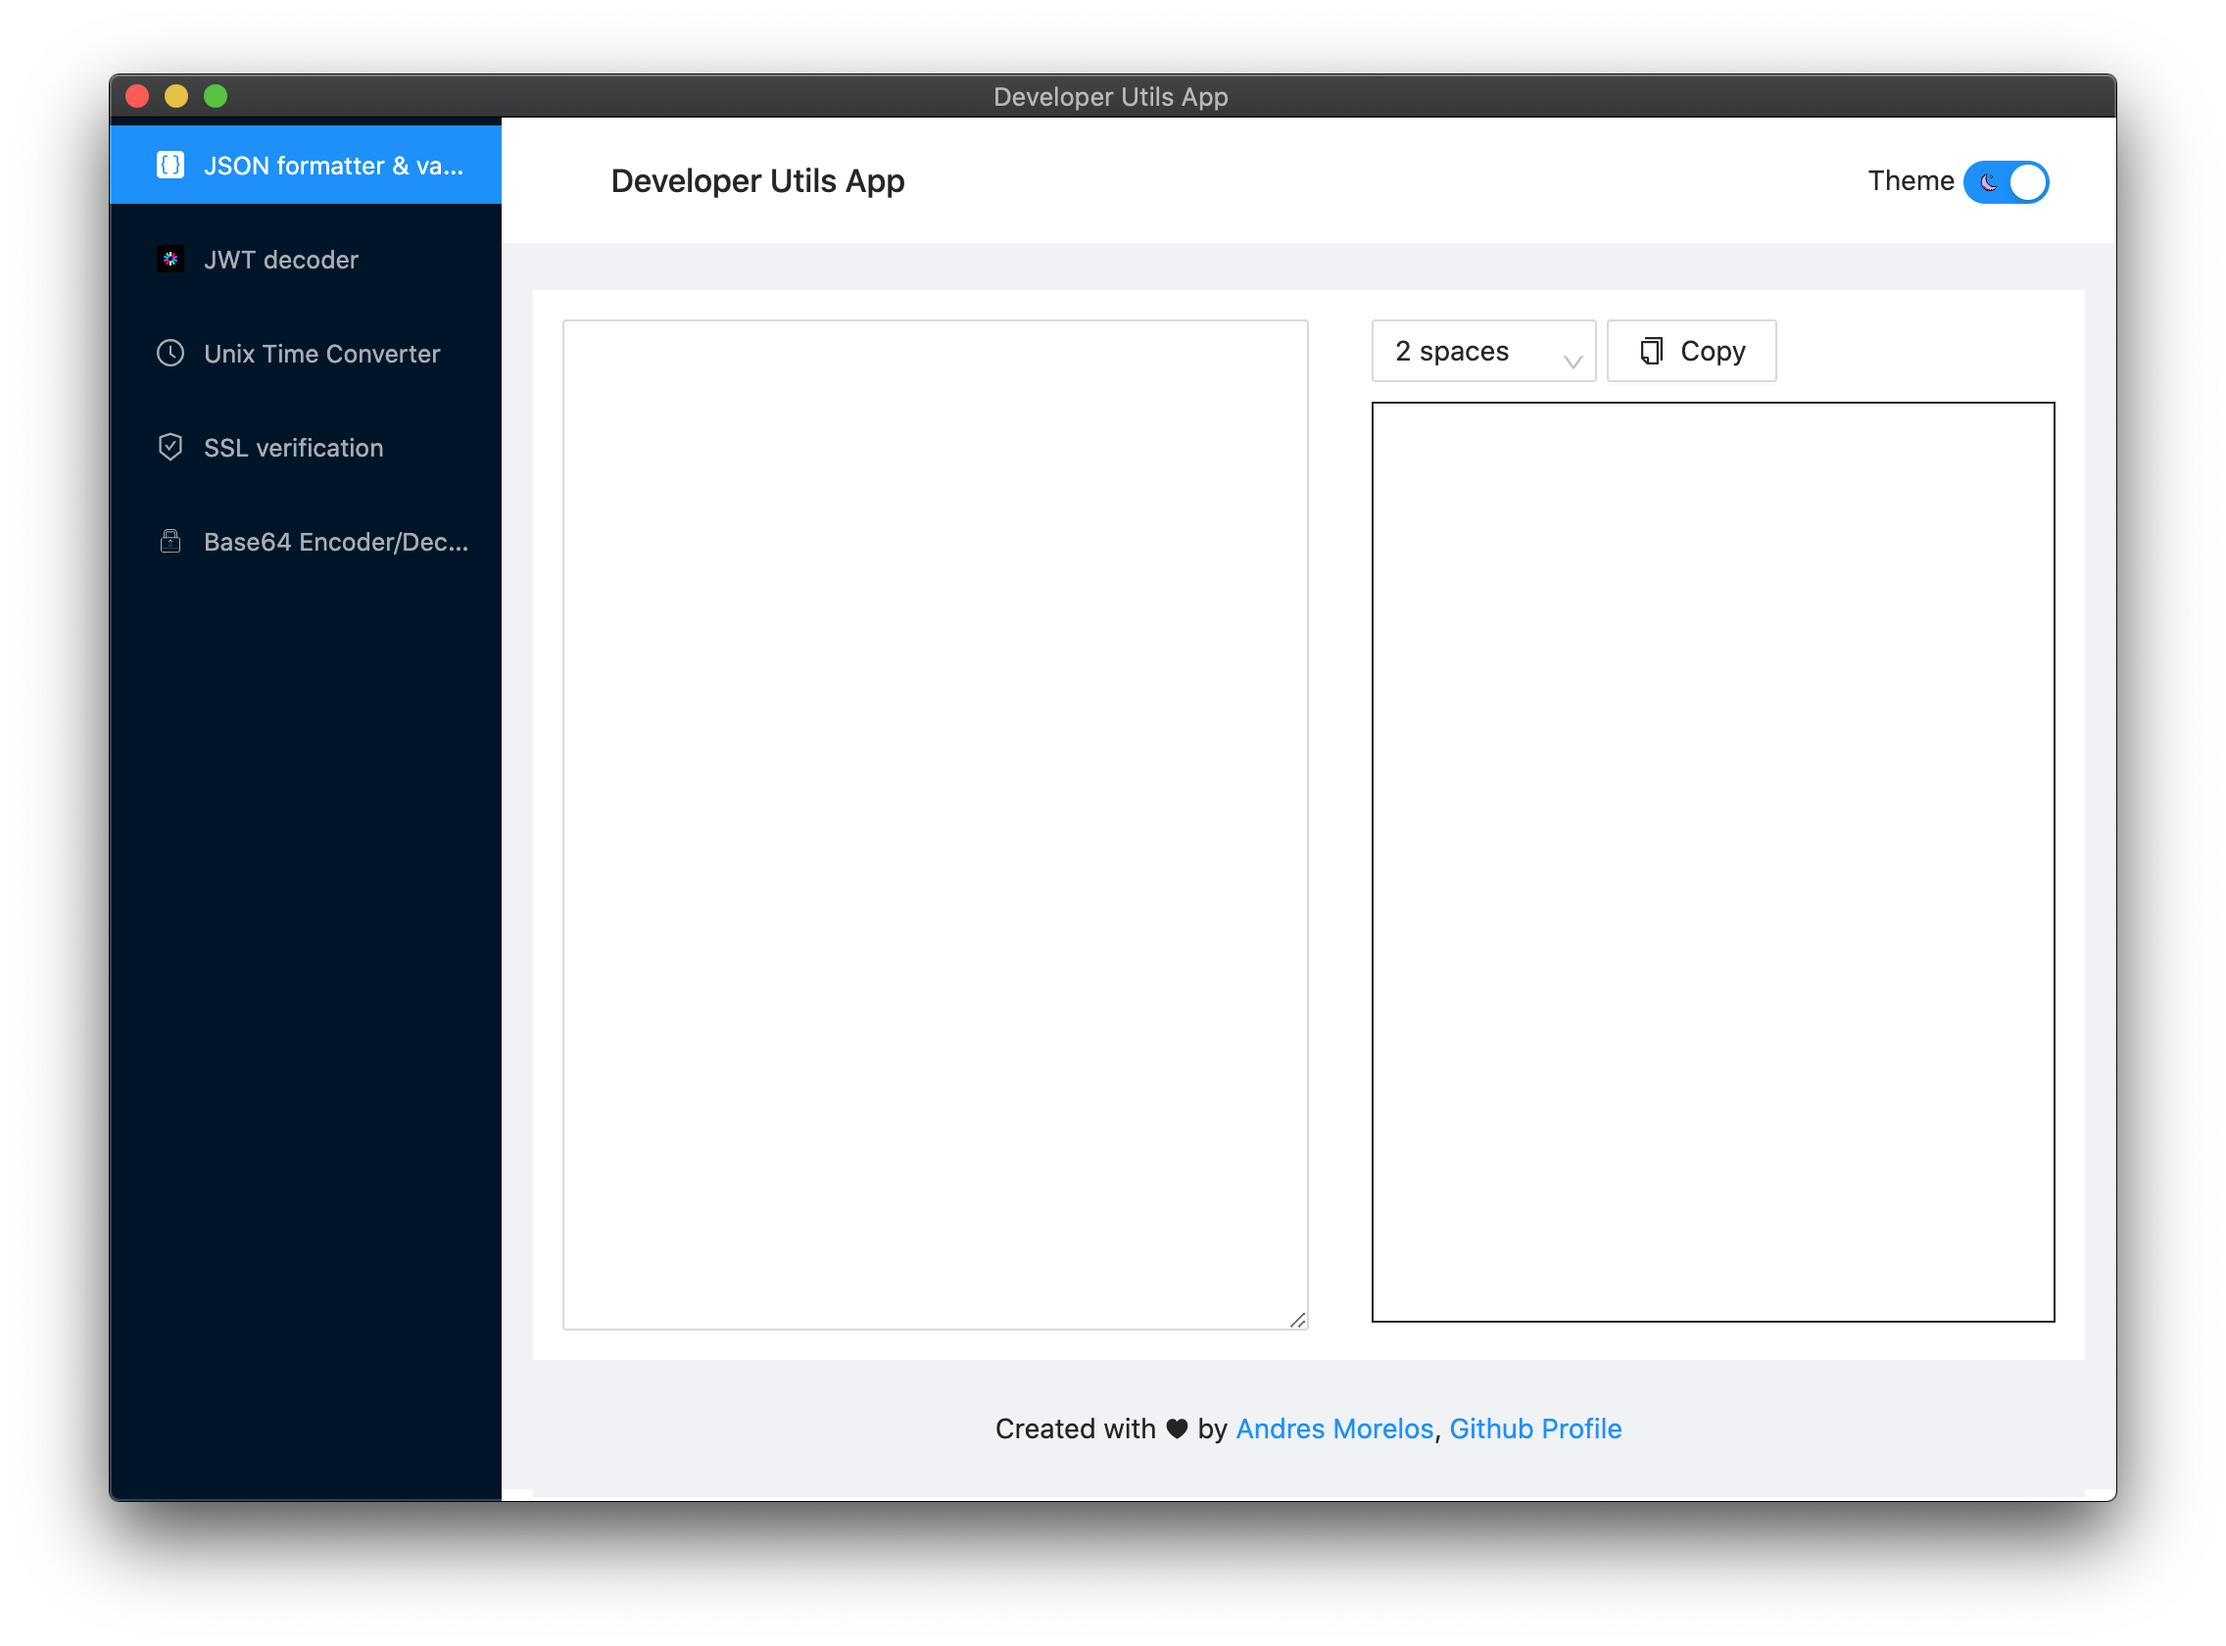
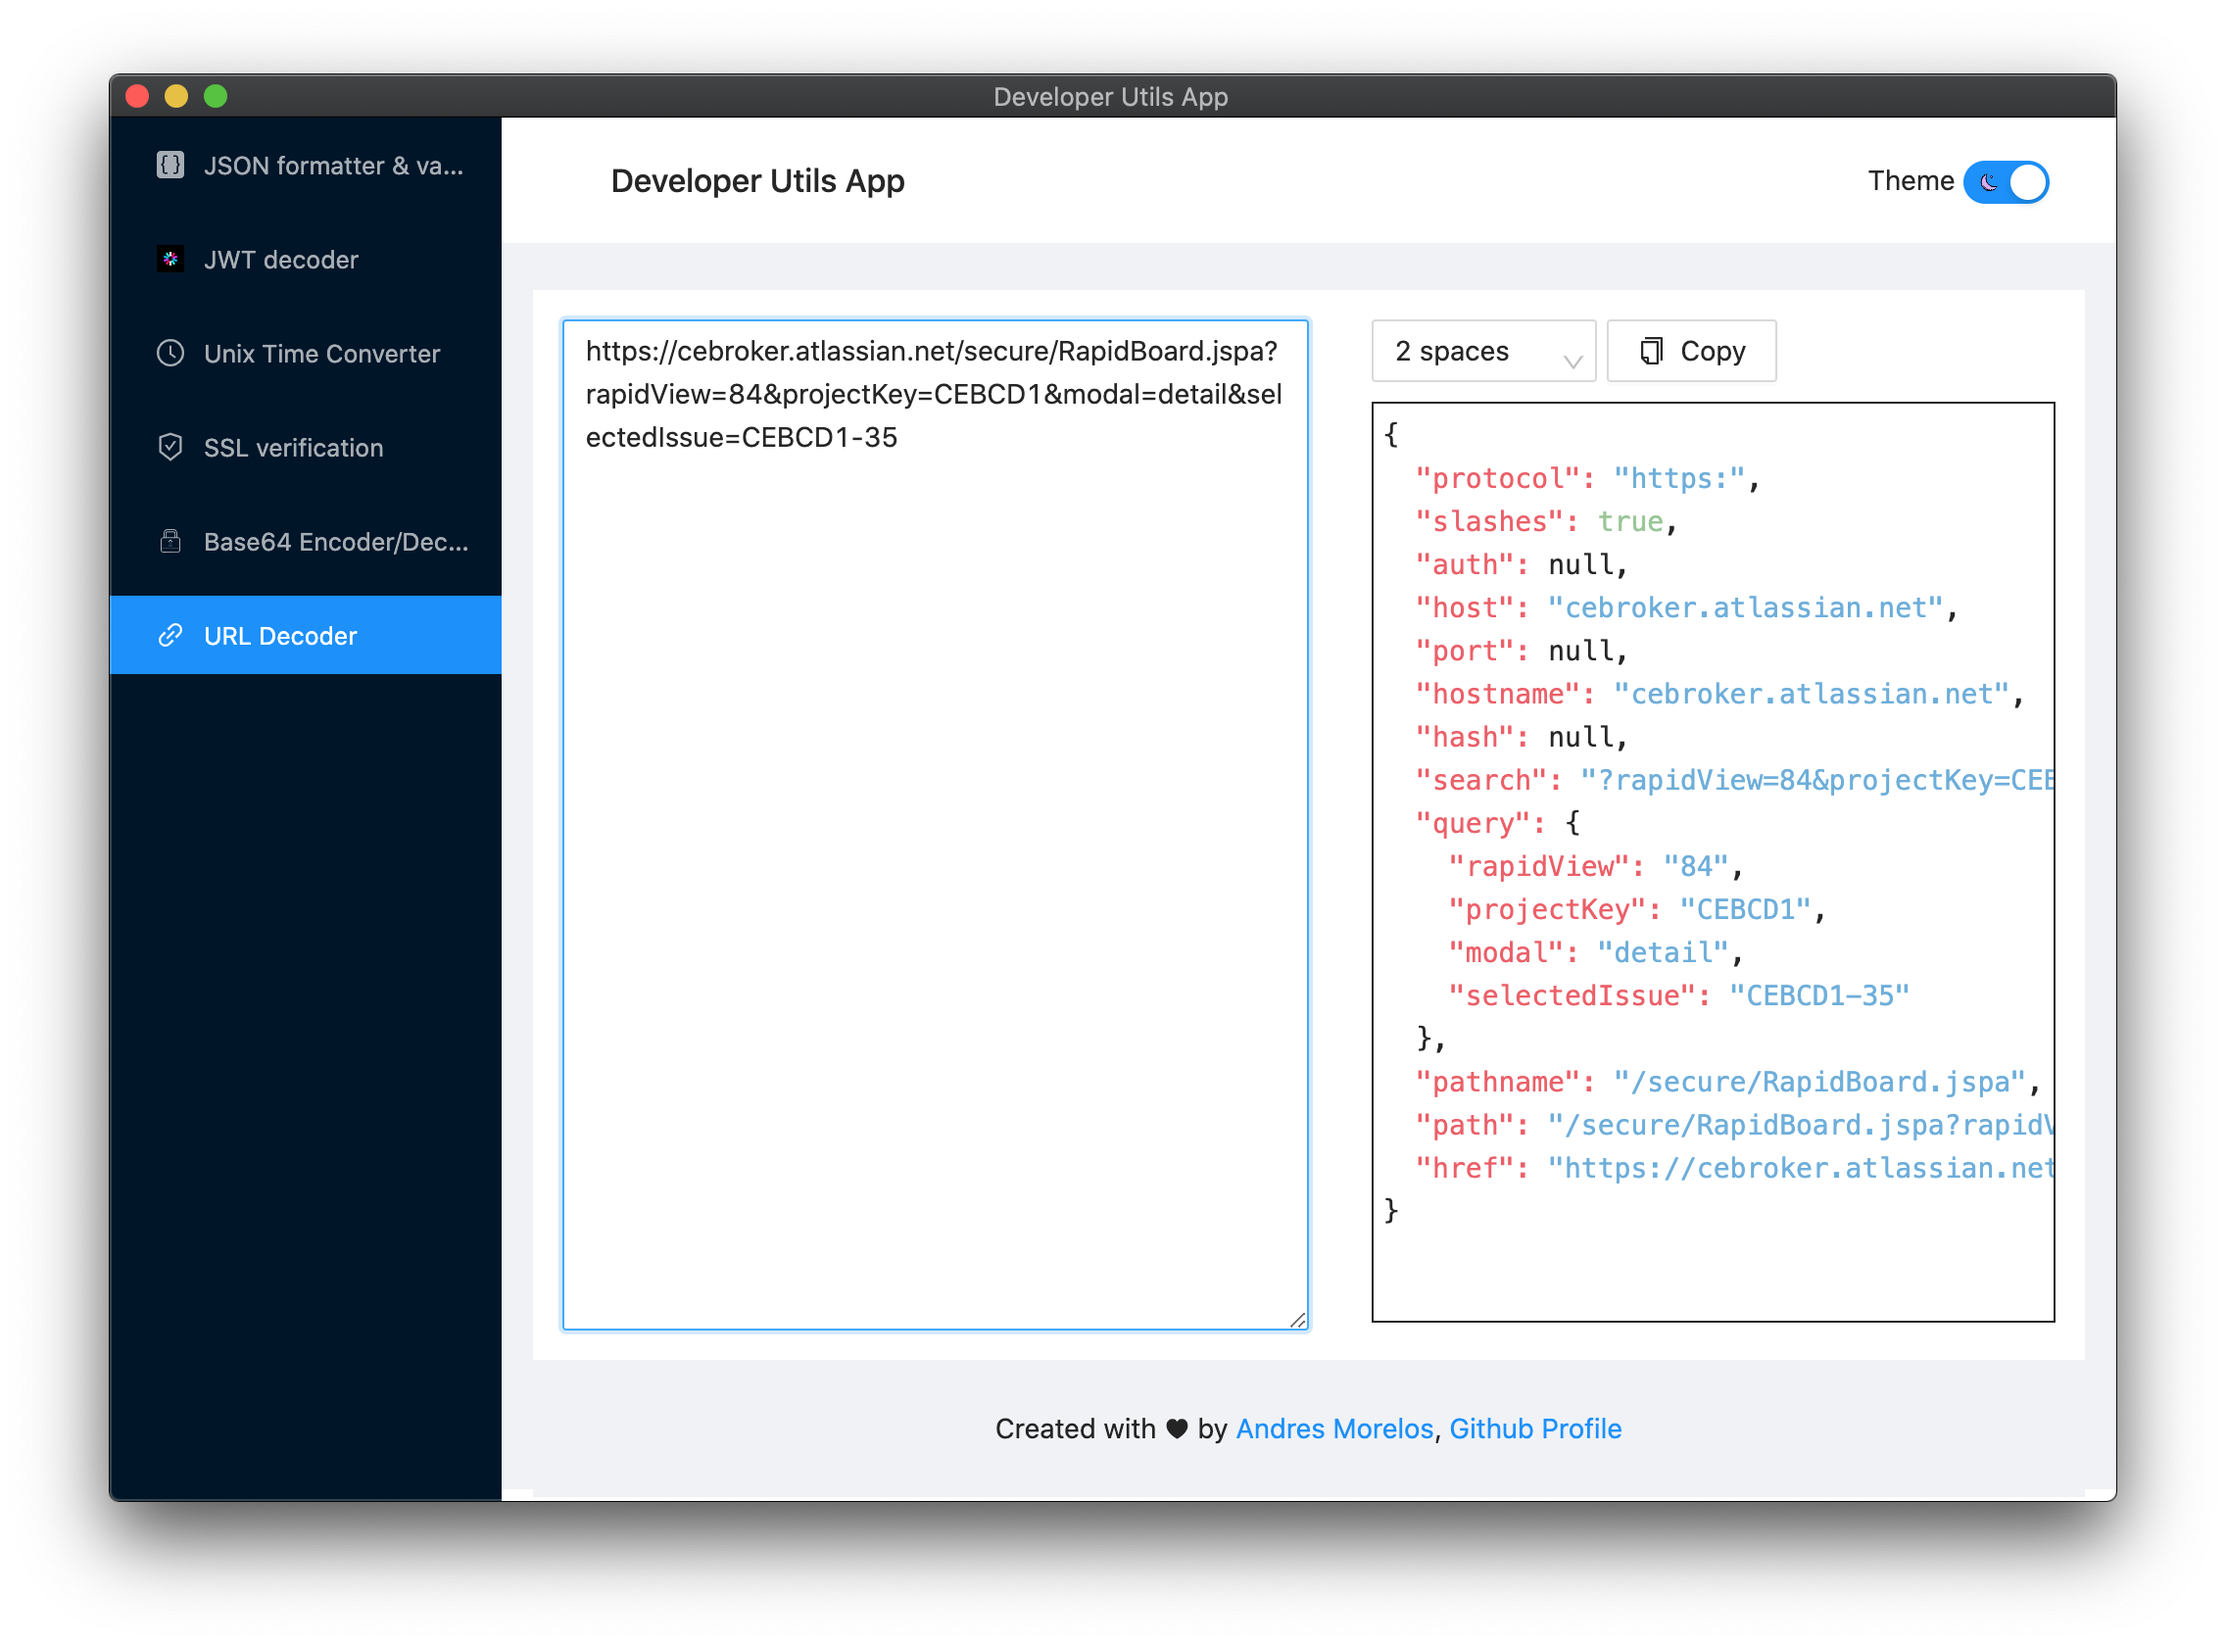
:package: URL Decoder.

diff --git a/src/components/urldecoder/index.tsx b/src/components/urldecoder/index.tsx
@@ -2,6 +2,7 @@ import React from 'react';
 import { Input, Row, Col, Select, Button } from 'antd';
 import { CopyOutlined } from '@ant-design/icons';
 import { clipboard } from 'electron';
+import URL from 'url';
 import PrettyJson from '../../helpers/prettyJson';
 
 const { TextArea } = Input;
@@ -12,9 +13,9 @@ class JSONFormatterValidator extends React.Component {
     super(props);
 
     this.state = {
-      jsonValue: null,
-      jsonParsed: null,
       space: 2,
+      dataDecode: null,
+      data: null,
     };
 
     this.onTextAreaChange = this.onTextAreaChange.bind(this);
@@ -27,25 +28,25 @@ class JSONFormatterValidator extends React.Component {
 
   onTextAreaChange(event: any) {
     try {
-      const jsonValue = JSON.parse(event.target.value);
+      const data = URL.parse(event.target.value, true);
 
       this.setState((state, props) => {
-        this.parseJson(jsonValue, state.space);
+        this.parseJson(data, state.space);
 
         return {
-          jsonValue,
+          data,
         };
       });
     } catch (error) {
       if (event.target.value) {
         this.setState({
-          jsonValue: null,
-          jsonParsed: error.message,
+          data: null,
+          dataDecode: error.message,
         });
       } else {
         this.setState({
-          jsonValue: null,
-          jsonParsed: null,
+          data: null,
+          dataDecode: null,
         });
       }
     }
@@ -55,29 +56,30 @@ class JSONFormatterValidator extends React.Component {
     this.setState((state, prop) => {
       const space = parseInt(value, 10);
 
-      this.parseJson(state.jsonValue, space);
+      this.parseJson(state.data, space);
 
       return { space };
     });
   }
 
   parseJson(value: string, space: number) {
-    const jsonParsed = JSON.stringify(value, null, space);
+    const dataDecode = JSON.stringify(value, null, space);
 
     this.setState({
-      jsonParsed,
+      dataDecode,
     });
   }
 
   Copy(event) {
-    if (this.state.jsonParsed) {
-      clipboard.writeText(this.state.jsonParsed);
+    if (this.state.dataDecode) {
+      clipboard.writeText(this.state.dataDecode);
     }
     return null;
   }
 
+
   render() {
-    const { jsonParsed } = this.state;
+    const { dataDecode } = this.state;
     return (
       <Row style={{ padding: '15px' }}>
         <Col span={12}>
@@ -98,7 +100,7 @@ class JSONFormatterValidator extends React.Component {
           </Button>
           <pre
             style={{ border: '1px solid', height: '91%', padding: '5px' }}
-            dangerouslySetInnerHTML={PrettyJson(jsonParsed)}
+            dangerouslySetInnerHTML={PrettyJson(dataDecode)}
           />
         </Col>
       </Row>

diff --git a/src/components/jwtdecoder/index.tsx b/src/components/jwtdecoder/index.tsx
@@ -3,6 +3,7 @@ import { Input, Row, Col, Button } from 'antd';
 import { CopyOutlined } from '@ant-design/icons';
 import * as jwt from 'jsonwebtoken';
 import { clipboard } from 'electron';
+import PrettyJson from '../../helpers/prettyJson';
 
 const { TextArea } = Input;
 
@@ -49,39 +50,6 @@ class JWTDecoder extends React.Component {
     }
   }
 
-  // eslint-disable-next-line class-methods-use-this
-  prettyJson(json: string) {
-    if (json) {
-      // eslint-disable-next-line no-param-reassign
-      json = json
-        .replace(/&/g, '&amp;')
-        .replace(/</g, '&lt;')
-        .replace(/>/g, '&gt;');
-
-      return {
-        __html: json.replace(
-          /("(\\u[a-zA-Z0-9]{4}|\\[^u]|[^\\"])*"(\s*:)?|\b(true|false|null)\b|-?\d+(?:\.\d*)?(?:[eE][+\-]?\d+)?)/g,
-          function (match) {
-            let cls = 'number';
-            if (/^"/.test(match)) {
-              if (/:$/.test(match)) {
-                cls = 'key';
-              } else {
-                cls = 'string';
-              }
-            } else if (/true|false/.test(match)) {
-              cls = 'boolean';
-            } else if (/null/.test(match)) {
-              cls = 'null';
-            }
-            return `<span class="${cls}">${match}</span>`;
-          }
-        ),
-      };
-    }
-
-    return { __html: undefined };
-  }
 
   // eslint-disable-next-line class-methods-use-this
   Copy(event: any) {
@@ -125,7 +93,7 @@ class JWTDecoder extends React.Component {
 
           <pre
             style={{ border: '1px solid', height: '41%', padding: '5px' }}
-            dangerouslySetInnerHTML={this.prettyJson(headers)}
+            dangerouslySetInnerHTML={PrettyJson(headers)}
           />
           <h4>
             Payload{' '}
@@ -140,7 +108,7 @@ class JWTDecoder extends React.Component {
 
           <pre
             style={{ border: '1px solid', height: '41%', padding: '5px' }}
-            dangerouslySetInnerHTML={this.prettyJson(payload)}
+            dangerouslySetInnerHTML={PrettyJson(payload)}
           />
         </Col>
       </Row>

diff --git a/src/App.tsx b/src/App.tsx
@@ -2,6 +2,7 @@ import React, { useState } from 'react';
 // Small helpers you might want to keep
 import { BrowserRouter as Router, Switch, Route } from 'react-router-dom';
 import { Layout, Row, Col } from 'antd';
+import PackageJson from './package.json';
 // eslint-disable-next-line import/extensions
 import './helpers/external_links.ts';
 import SwitchTheme from './components/SwitchTheme';
@@ -11,6 +12,7 @@ import JWTDecoder from './components/jwtdecoder';
 import UnixTimeConverter from './components/unixtimeconverter';
 import SSLInformation from './components/sslinformation';
 import Base64 from './components/base64';
+import URLDecoder from './components/urldecoder';
 
 const { Content, Footer, Header } = Layout;
 
@@ -51,6 +53,7 @@ export default function App() {
             }}
           >
             <Switch>
+              <Route path="/url-decoder" component={URLDecoder} />
               <Route
                 path="/json-formater-validator"
                 component={JSONFormatterValidator}
@@ -77,6 +80,7 @@ export default function App() {
               >
                 Github Profile
               </a>
+              , Version {PackageJson.version}
             </Footer>
           </Content>
         </Layout>

diff --git a/src/helpers/prettyJson.ts b/src/helpers/prettyJson.ts
@@ -1,0 +1,31 @@
+function prettyJson(jsonToPretty: string): Object {
+  if (jsonToPretty) {
+    const json = jsonToPretty
+      .replace(/&/g, '&amp;')
+      .replace(/</g, '&lt;')
+      .replace(/>/g, '&gt;');
+
+    return {
+      __html: json.replace(
+        /("(\\u[a-zA-Z0-9]{4}|\\[^u]|[^\\"])*"(\s*:)?|\b(true|false|null)\b|-?\d+(?:\.\d*)?(?:[eE][+\-]?\d+)?)/g,
+        function (match) {
+          let cls = 'number';
+          if (/^"/.test(match)) {
+            if (/:$/.test(match)) {
+              cls = 'key';
+            } else {
+              cls = 'string';
+            }
+          } else if (/true|false/.test(match)) {
+            cls = 'boolean';
+          } else if (/null/.test(match)) {
+            cls = 'null';
+          }
+          return `<span class="${cls}">${match}</span>`;
+        }
+      ),
+    };
+  }
+}
+
+export default prettyJson;

diff --git a/src/components/Sidebar/index.tsx b/src/components/Sidebar/index.tsx
@@ -4,6 +4,7 @@ import { Link } from 'react-router-dom';
 import {
   ClockCircleOutlined,
   SafetyCertificateOutlined,
+  LinkOutlined,
 } from '@ant-design/icons';
 import JwtIcon from '../icons/jwtIcon';
 import BracketsIcon from '../icons/brackets';
@@ -55,6 +56,11 @@ class Sidebar extends React.Component {
           <Menu.Item key="5" icon={<Base64Icon fill="white" />}>
             <Link to="/base64" style={{ fontSize: '0.9em' }}>
               Base64 Encoder/Decoder
+            </Link>
+          </Menu.Item>
+          <Menu.Item key="6" icon={<LinkOutlined />}>
+            <Link to="/url-decoder" style={{ fontSize: '0.9em' }}>
+              URL Decoder
             </Link>
           </Menu.Item>
         </Menu>

diff --git a/README.md b/README.md
@@ -1,5 +1,10 @@
 ## Developer Utils App
 
+![Electron](https://img.shields.io/badge/-Electron-05122A?style=flat&logo=electron)&nbsp;
+![TypeScript](https://img.shields.io/badge/-TypeScript-05122A?style=flat&logo=typescript)&nbsp;
+![React](https://img.shields.io/badge/-React-05122A?style=flat&logo=React)&nbsp;
+![GitHub release (latest by date)](https://img.shields.io/github/v/release/AndresMorelos/developer-utils-app)&nbsp;
+
 A Must Developer Necessary App.
 
 ![Developer Utils App](./.erb/img/dev-utils-app.png)
@@ -11,7 +16,19 @@ A Must Developer Necessary App.
 - Unix Time Converter
 - SSL Information
 - Base64 Decoder/Encoder
+- URL Decoder
 - [Request a Feature](https://github.com/AndresMorelos/devapp/issues/new)
+
+
+## AutoUpdates:
+
+- Win: ✅
+- Linux: ✅
+- Mac: ❌ (I need to buy the developer certificate)
+
+## Releases
+
+[https://github.com/AndresMorelos/developer-utils-app/releases](https://github.com/AndresMorelos/developer-utils-app/releases)
 
 ## Icon
 
